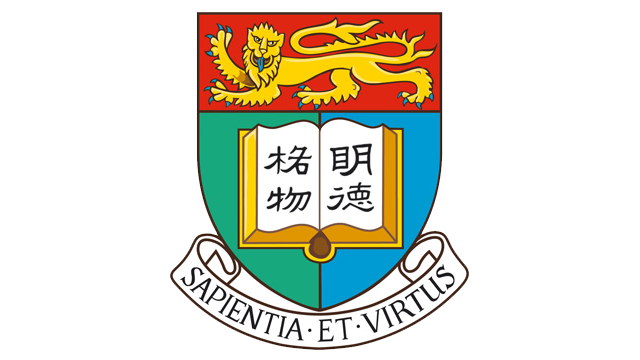
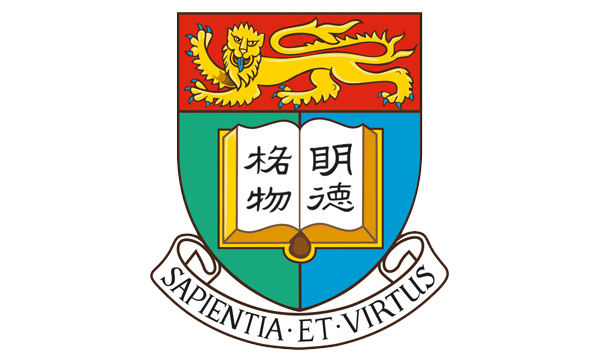
update thesis thumbnail

Changed region(s): [[0.24, 0.0306, 0.75, 0.9778], [0.45, 0.6722, 0.54, 0.7333]]

diff --git a/research/index.html b/research/index.html
@@ -323,7 +323,7 @@
 				<!-- phd thesis -->
 				<div class="row" style="margin-bottom: 1em;">
 					<div class="span2 offset1">
-						<img class="dropshadow pull-right" alt="" src="/images/hku.png" height="90" />
+						<img class="dropshadow pull-right" alt="" src="/research/publications/thesis/thumbnail.png" width="150" height="90" />
 					</div>
 					<div class="span8">
 						<a href="">
